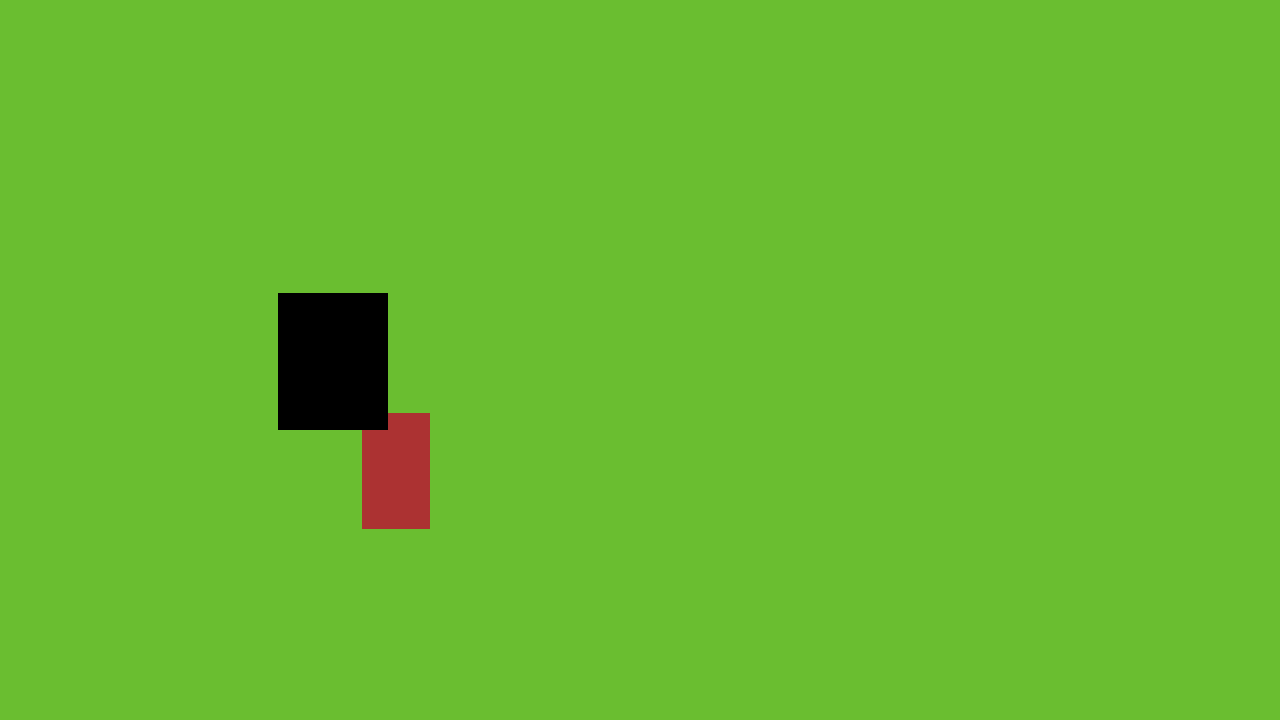
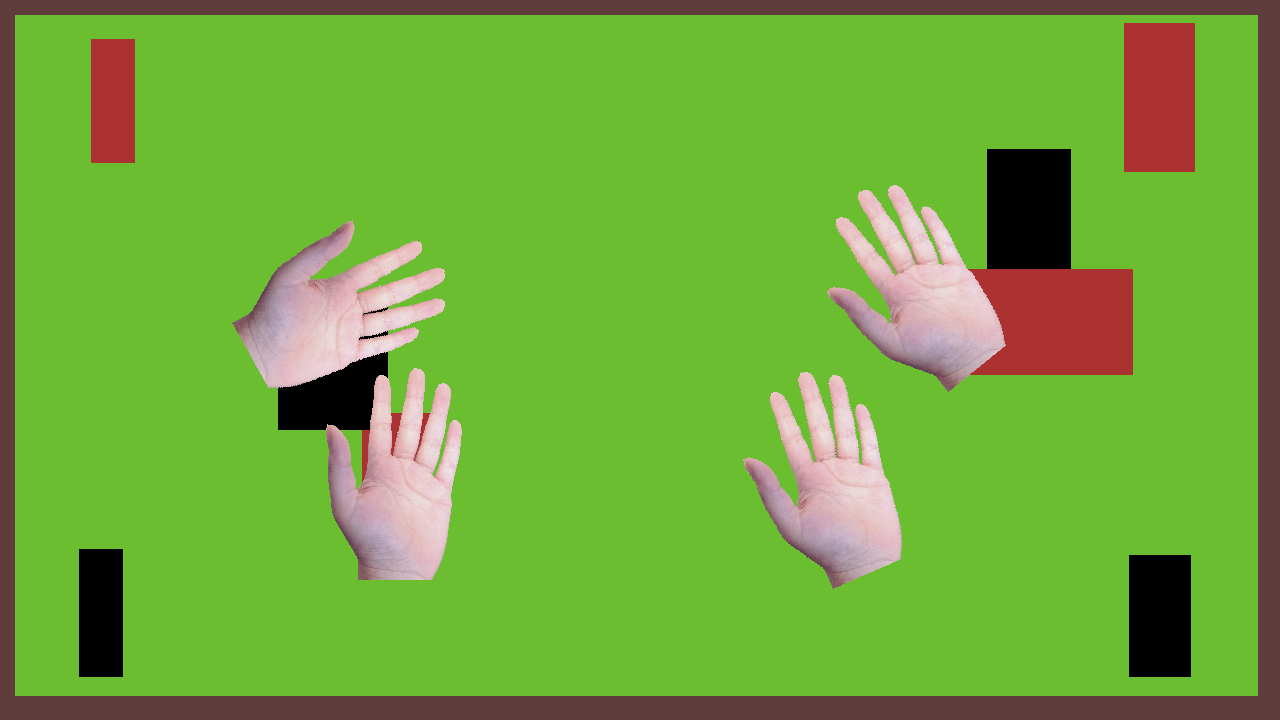
Added hands

diff --git a/src/sections/main-menu/MainMenuScene.ts b/src/sections/main-menu/MainMenuScene.ts
@@ -1,32 +1,75 @@
+import * as PIXI from 'pixi.js';
 import { App } from '../../core/App';
+import { TextComponent } from '../../core/components/ui/TextComponent';
 import { UIUtils } from '../../core/components/ui/UIUtils';
+import { GameObject } from '../../core/GameObject';
 import { Scene } from '../../core/scenes/Scene';
+import { PointUtils } from '../../core/math/PointUtils';
+import gsap from 'gsap';
 
 export class MainMenuScene extends Scene {
     protected static override readonly ROOT_NAME: string = "MainMenuScene";
 
     public override async start(): Promise<void> {
+        const titleComp: TextComponent = new TextComponent("Jose Montenegro - Softgames Test!", {
+            fontSize: 40
+        });
+        const titleObj: GameObject = new GameObject({
+            label: 'Title'
+        });
+        titleObj.addComponent(titleComp);
+
+        titleObj.x = 640;
+        titleObj.y = 200;
+        this._root.addChild(titleObj);
+
         this._root.addChild(UIUtils.createButtonObj({
             buttonName: "AceOfShadows",
             buttonText: "Ace of Shadows",
-            x: 700,
-            y: 300,
+            x: 640,
+            y: 400,
             callback: this.moveToScene.bind(this, 'ace-of-shadows')
         }));
         this._root.addChild(UIUtils.createButtonObj({
             buttonName: "MagicWords",
             buttonText: "Magic Words",
-            x: 700,
-            y: 400,
+            x: 640,
+            y: 500,
             callback: this.moveToScene.bind(this, 'magic-words')
         }));
         this._root.addChild(UIUtils.createButtonObj({
             buttonName: "PhoenixFlame",
             buttonText: "Phoenix Flame",
-            x: 700,
-            y: 500,
+            x: 640,
+            y: 600,
             callback: this.moveToScene.bind(this, 'phoenix-flame')
         }));
+
+        this.startBobHand(
+            this.createHand(200, 160, PointUtils.degreesToRadians(90)),
+            -20
+        );
+        this.startBobHand(
+            this.createHand(1080, 250, PointUtils.degreesToRadians(-90)),
+            20
+        );
+    }
+
+    private createHand(x: number, y: number, rotation: number): PIXI.Sprite {
+        const hand: PIXI.Sprite = PIXI.Sprite.from('hand-point');
+        hand.x = x;
+        hand.y = y;
+        hand.rotation = rotation;
+        this._root.addChild(hand);
+        return hand;
+    }
+
+    private startBobHand(hand: PIXI.Sprite, xOffset: number): void {
+        var tx: number = hand.x + xOffset;
+        gsap.to(hand, {
+            x: tx, duration: 0.3, ease: "power1.out",
+            onComplete: this.startBobHand.bind(this, hand, -xOffset) 
+        });
     }
 
     private moveToScene(key: string): void {

diff --git a/src/sections/magic-words/MagicWordsComponent.ts b/src/sections/magic-words/MagicWordsComponent.ts
@@ -13,6 +13,7 @@ export class MagicWordsComponent extends Component {
     private _textboxComp: MagicWordsTextboxComponent;
     private _avatarSpecMap: Map<string, MagicWordsAvatarSpec>;
     private _lineIndex: number = 0;
+    private _pointingHand: PIXI.Sprite; 
 
     private _time: number = 0;
 
@@ -22,6 +23,12 @@ export class MagicWordsComponent extends Component {
     }
 
     public override ready(): void {
+        this._pointingHand = PIXI.Sprite.from('hand-point');
+        this._pointingHand.visible = false;
+        this._pointingHand.x = 1050;
+        this._pointingHand.y = 100;
+        this.gameObject.addChild(this._pointingHand);
+
         this._avatarSpecMap = new Map<string, MagicWordsAvatarSpec>();
         this._config.avatars.forEach((avatarSpec: MagicWordsAvatarSpec) => {
             this._avatarSpecMap.set(avatarSpec.name, avatarSpec);
@@ -54,6 +61,7 @@ export class MagicWordsComponent extends Component {
 
     public playNextLine(): void {
         if (this._lineIndex >= this._config.dialogue.length) {
+            this._pointingHand.visible = true;
             return;
         }
         this.playLine(this._config.dialogue[this._lineIndex]!);

diff --git a/src/sections/ace-of-shadows/AceOfShadowsScene.ts b/src/sections/ace-of-shadows/AceOfShadowsScene.ts
@@ -26,25 +26,25 @@ export class AceOfShadowsScene extends Scene {
                 initialCards: 144,
                 atlasKey,
                 backingFrame,
-                x: 650,
+                x: 600,
                 y: 100
             },
             emptyStacks: [
                 {
                     initialCards: 0,
-                    atlasKey, backingFrame, x: 300, y: 50
+                    atlasKey, backingFrame, x: 290, y: -10
                 },
                 {
                     initialCards: 0,
-                    atlasKey, backingFrame, x: 1000, y: 50
+                    atlasKey, backingFrame, x: 910, y: -40
                 },
                 {
                     initialCards: 0,
-                    atlasKey, backingFrame, x: 400, y: 150
+                    atlasKey, backingFrame, x: 380, y: 150
                 },
                 {
                     initialCards: 0,
-                    atlasKey, backingFrame, x: 900, y: 150
+                    atlasKey, backingFrame, x: 820, y: 150
                 },
             ]
         }))

diff --git a/src/sections/phoenix-flame/PhoenixFlameScene.ts b/src/sections/phoenix-flame/PhoenixFlameScene.ts
@@ -16,11 +16,16 @@ export class PhoenixFlameScene extends Scene {
     protected static override readonly ROOT_NAME: string = "Phoenix Flame Scene";
 
     public override async start(): Promise<void> {
+        const hand: PIXI.Sprite = PIXI.Sprite.from('hand-fire');
+        hand.x = 360;
+        hand.y = 280;
+        this._root.addChild(hand);
+
         const phoenix: GameObject = new GameObject({
             label: "Phoenix Flame"
         });
         phoenix.addComponent(new PhoenixParticleSystemComponent({
-            maxParticles: 10,
+            maxParticles: 9,
             spritesheet: App.instance.assets.get<PIXI.Spritesheet>('particles'),
             frames: [
                 'feather',
@@ -37,7 +42,7 @@ export class PhoenixFlameScene extends Scene {
                 new PhoenixParticleAlphaModifier(1, 0)
             ]
         }));
-        phoenix.position.set(650, 400);
+        phoenix.position.set(630, 480);
         this._root.addChild(phoenix);
 
         this._root.addChild(UIUtils.createBackToMenuButton());

diff --git a/src/core/App.ts b/src/core/App.ts
@@ -108,7 +108,7 @@ export class App {
             this.initializeScreen(),
             this._assets.initialize({
                 manifestPath: '/manifest.json',
-                initialBundles: ['cards', 'particles', 'ui', 'localMagicWords']
+                initialBundles: ['cards', 'particles', 'ui', 'localMagicWords', 'hands']
             })
         ]);
         this.initializePlugins();
@@ -151,6 +151,12 @@ export class App {
         document.body.appendChild(this._innerApp.canvas);
         this.resize();
         window.addEventListener('resize', () => this.resize());
+        
+        window.addEventListener('pointerdown', () => {
+            if (!document.fullscreenElement) {
+                this._innerApp.canvas.requestFullscreen();
+            }
+        });
     }
 
     /**
